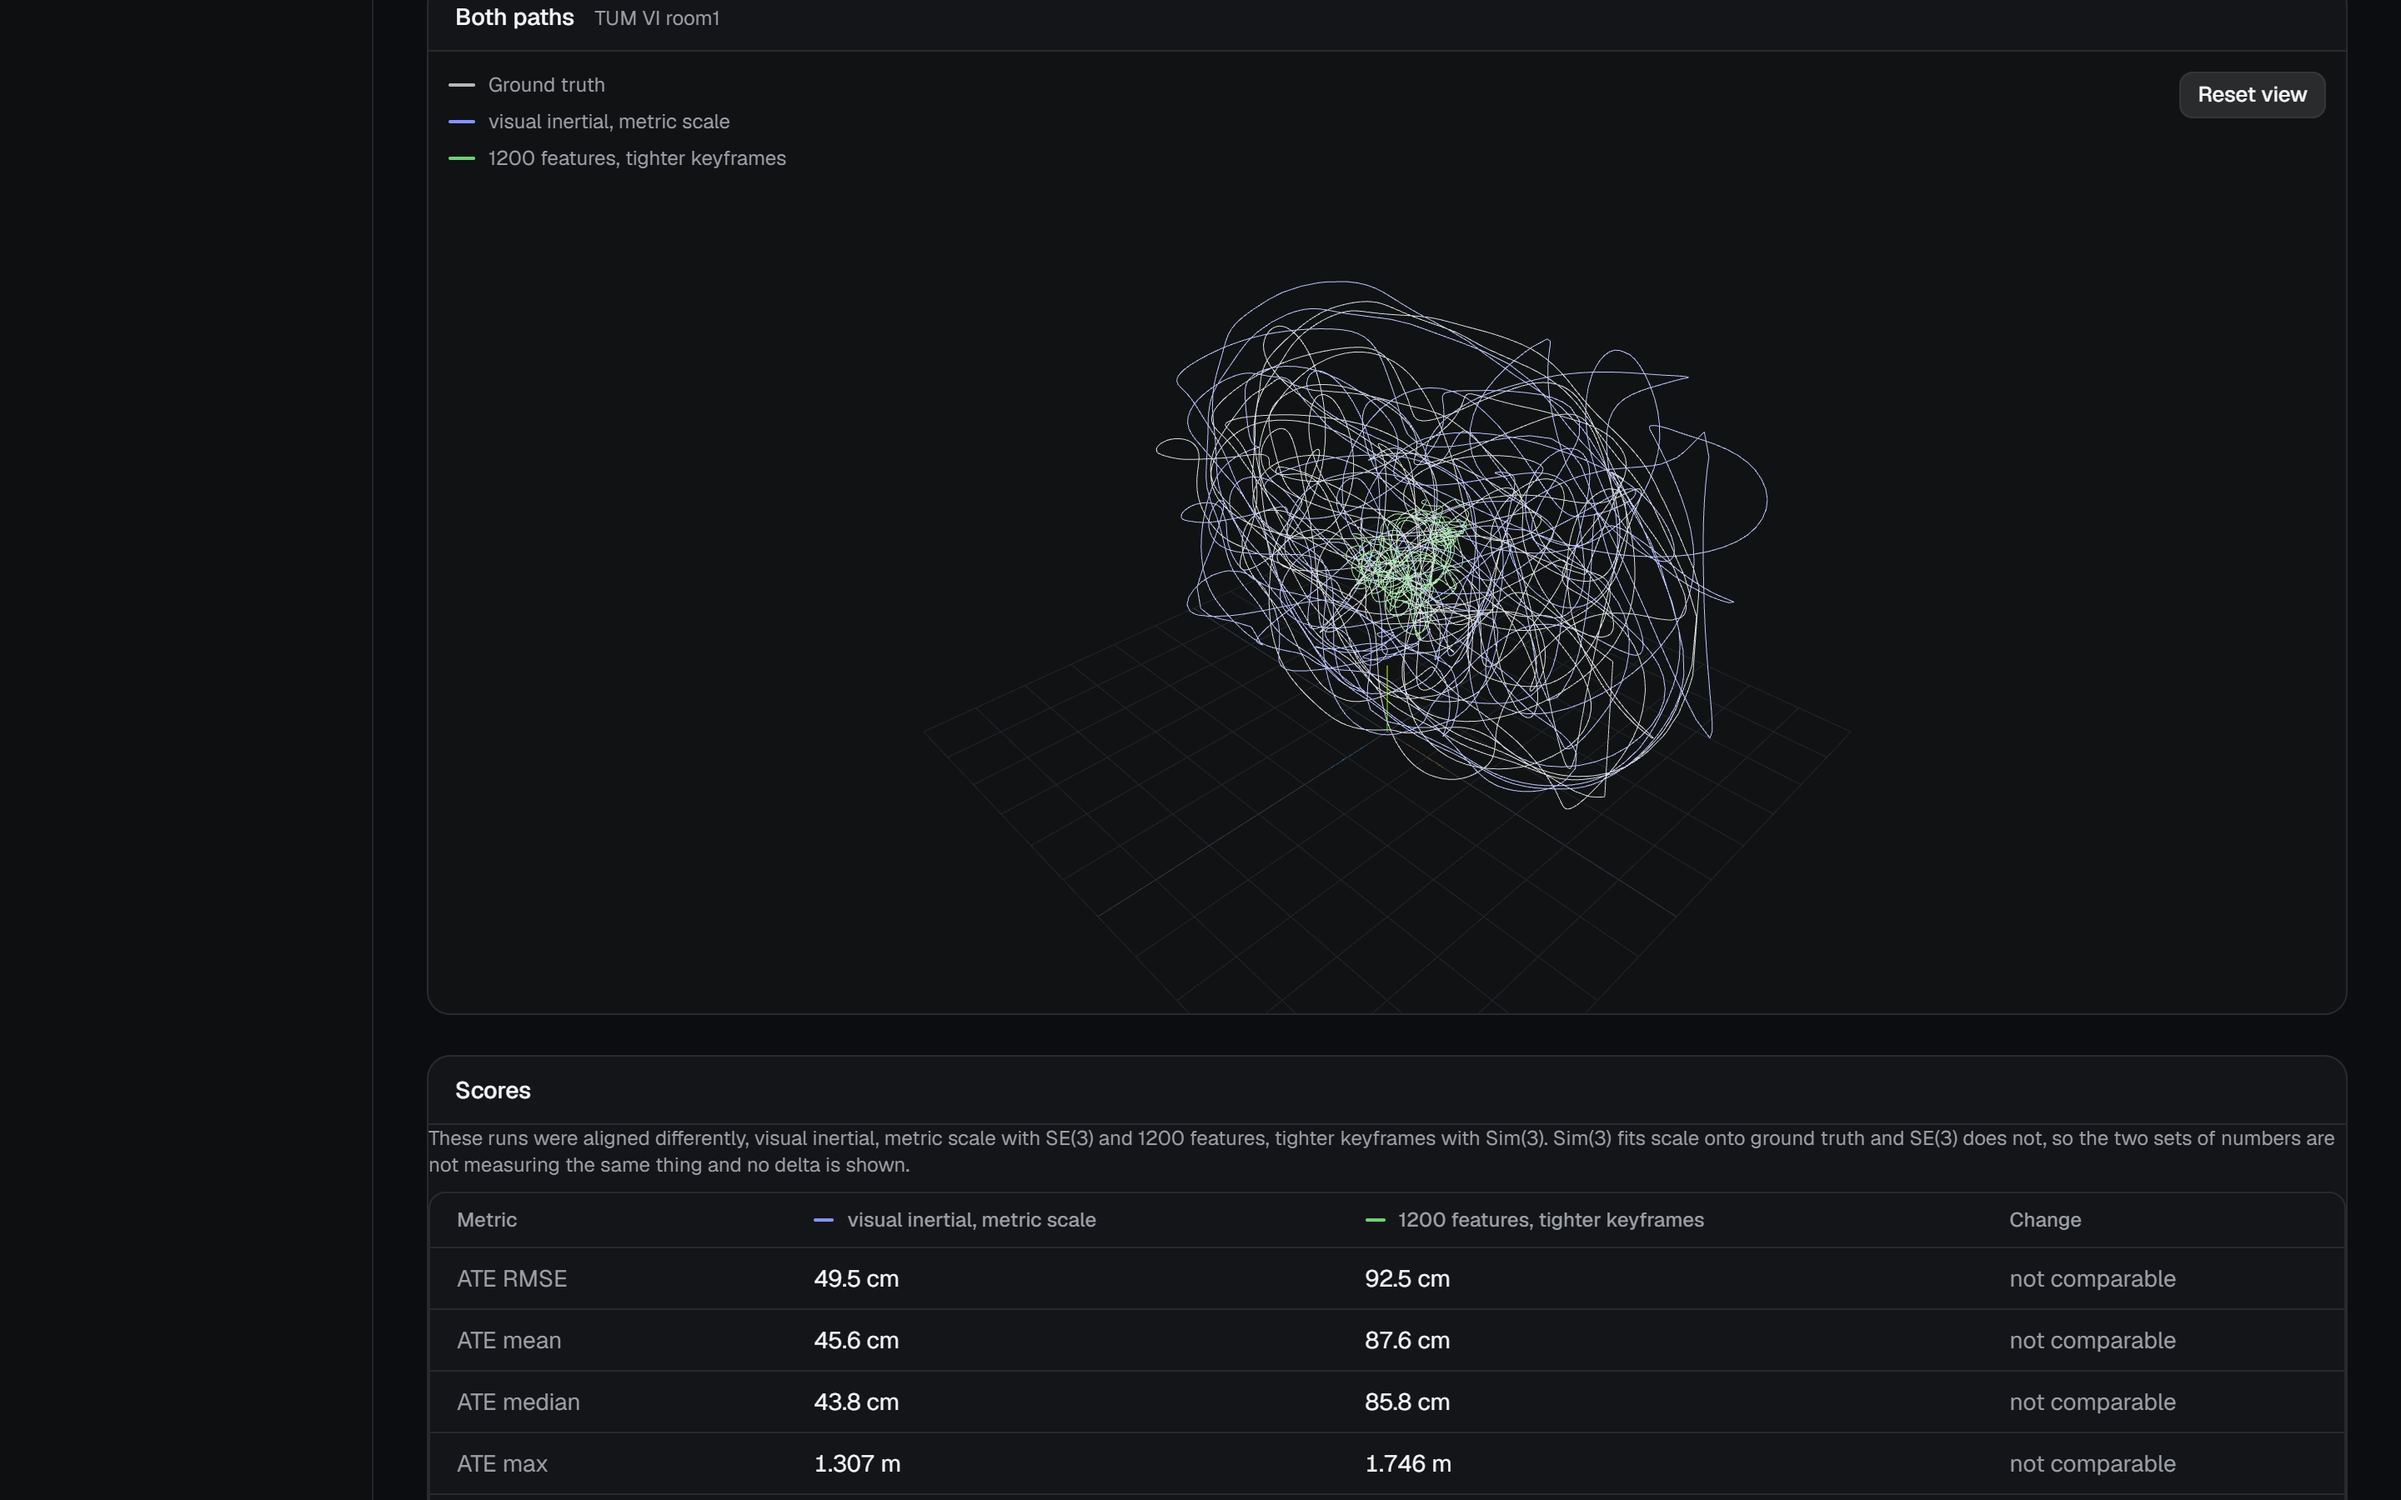
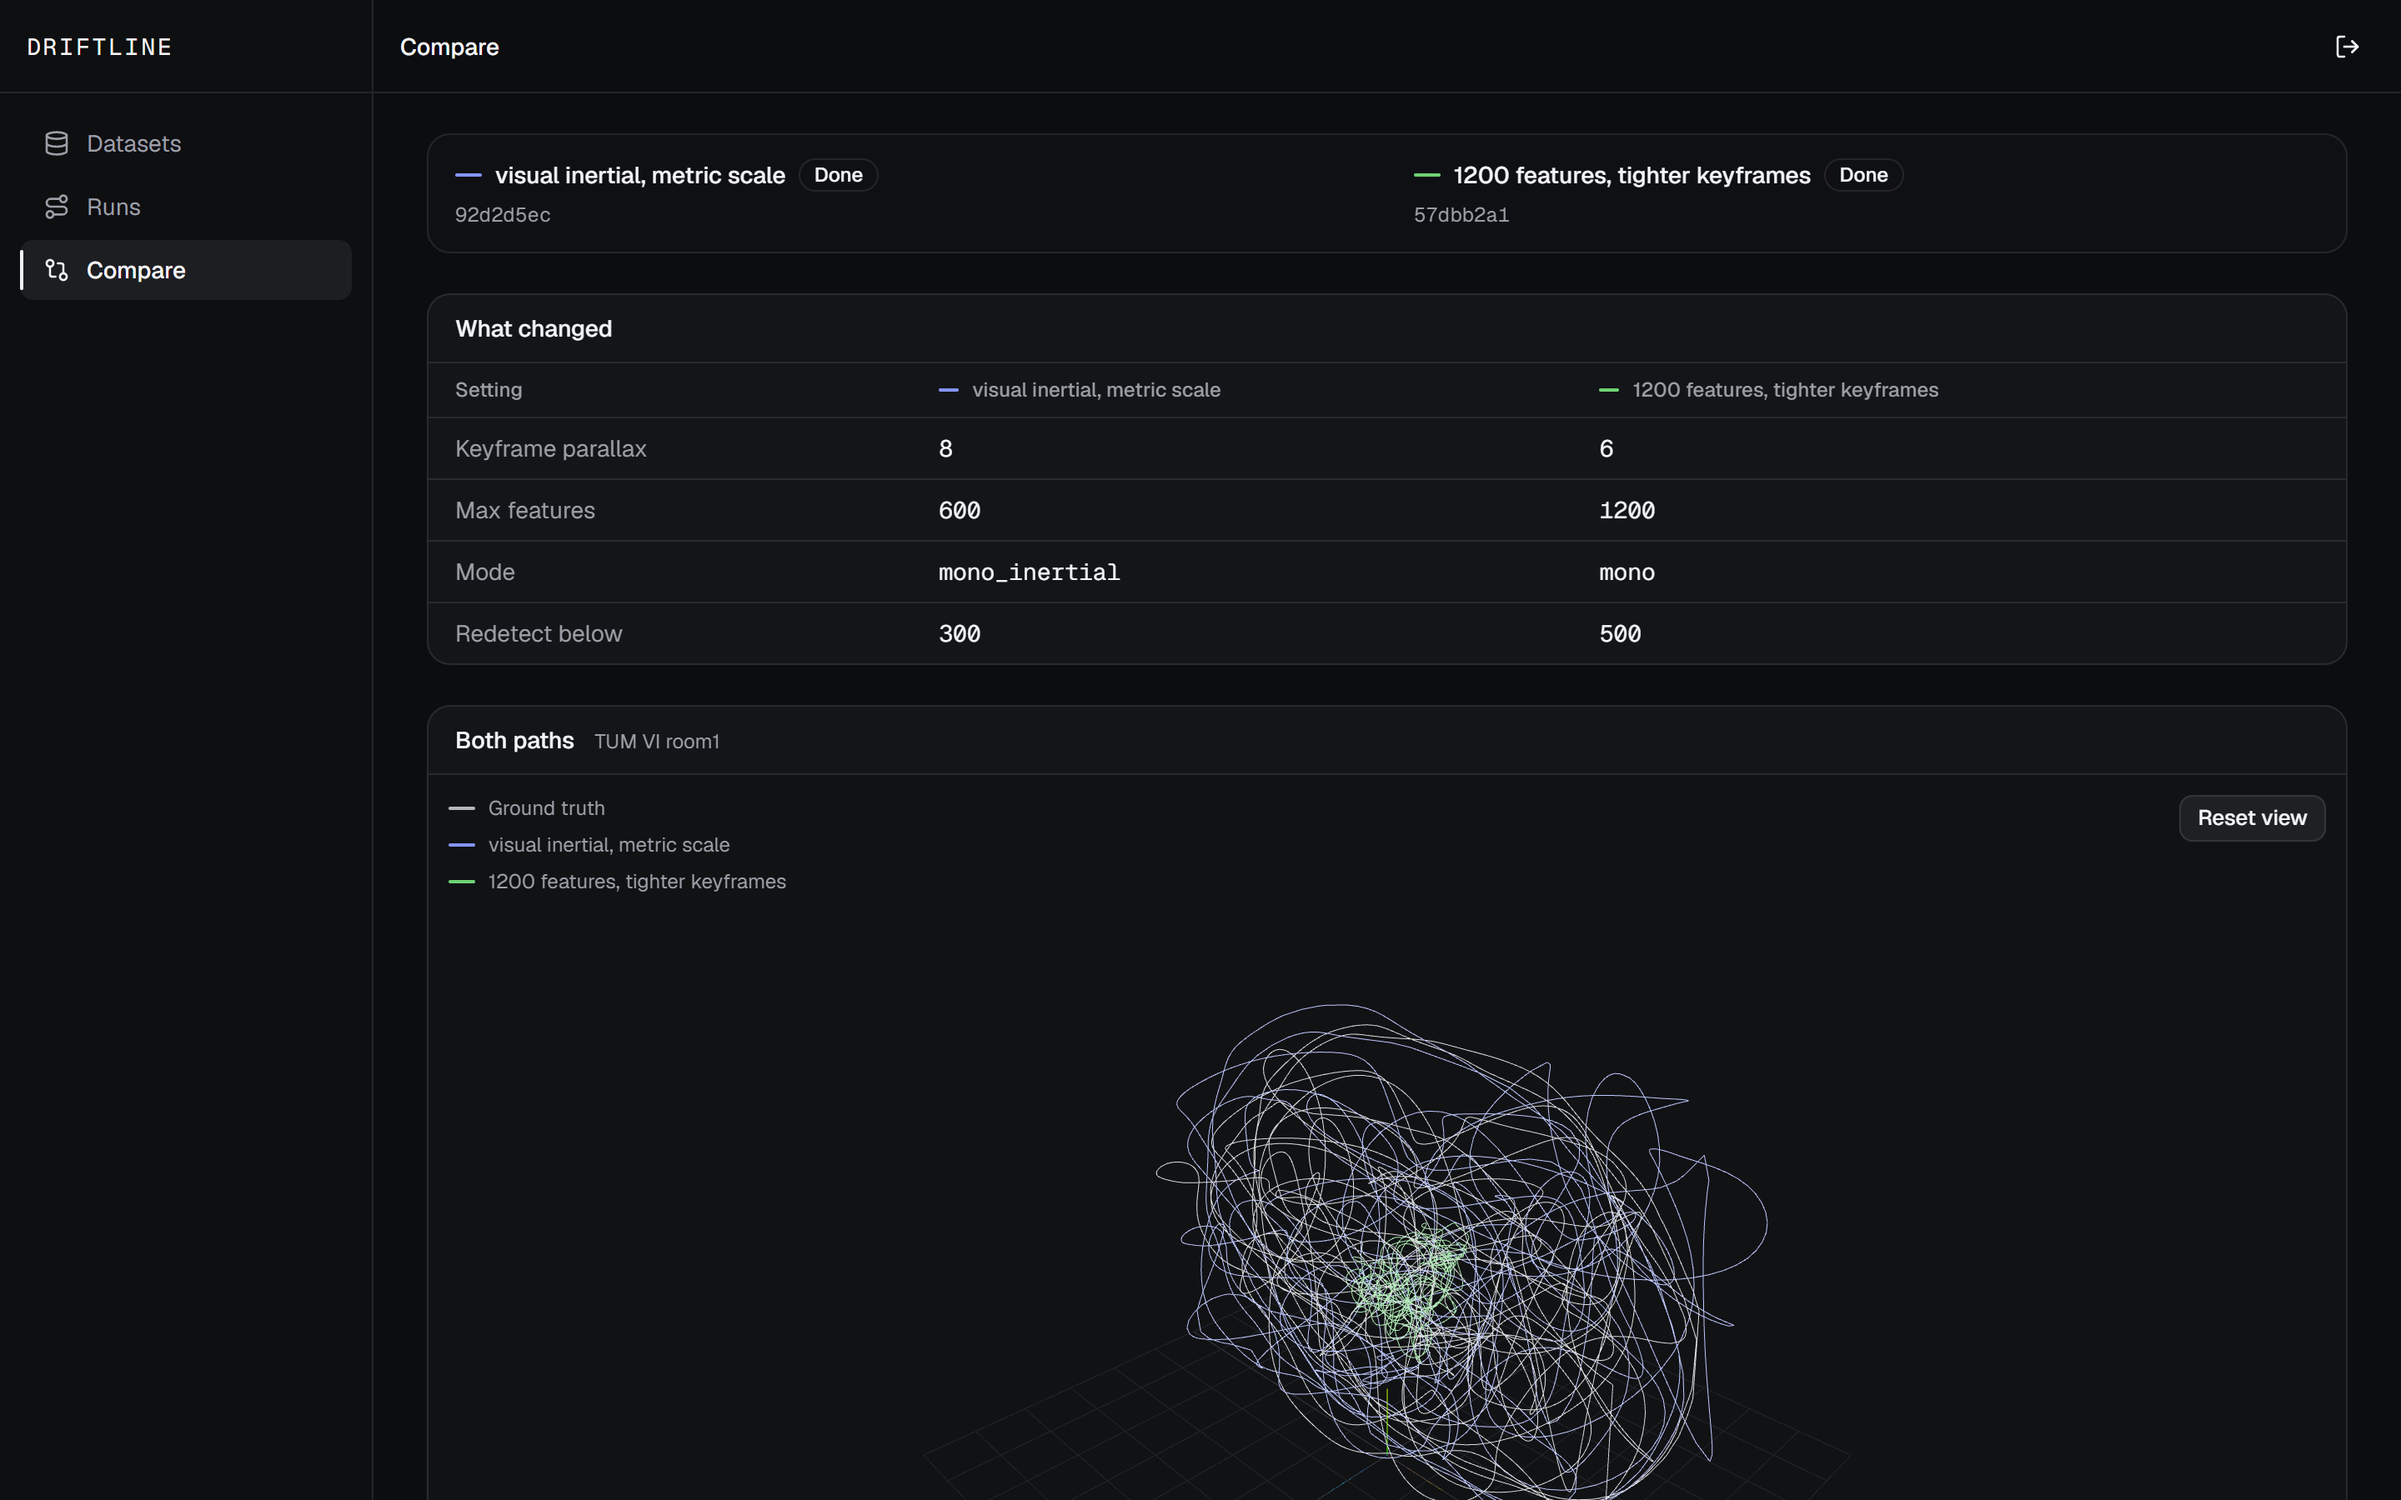
docs: recapture the readme figures against the fixed app chrome

diff --git a/frontend/e2e/readme-shots.capture.ts b/frontend/e2e/readme-shots.capture.ts
@@ -160,7 +160,13 @@ test("capture the compare screen", async ({ page }) => {
 
   await page.getByRole("button", { name: "Compare" }).click();
   await page.waitForURL(/\/app\/compare\?/);
-  await page.waitForTimeout(SETTLE_MS);
+  /*
+   * The paths load after the comparison, so the viewer holds a skeleton until they land.
+   * The wait is on the canvas being attached, not the legend: the legend renders from the path
+   * list before three.js has drawn anything, so waiting on it captures an empty panel.
+   */
+  await page.locator("canvas").first().waitFor({ state: "attached" });
+  await page.waitForTimeout(SETTLE_MS * 3);
   await page.screenshot({ path: `${DIR}/compare.png` });
 
   await settleViewer(page, "Both paths");

diff --git a/README.md b/README.md
@@ -53,7 +53,7 @@ That distinction is carried everywhere rather than hidden. A run states the alig
 **Comparison that refuses to mislead you.** Two runs go side by side with the config diff, both paths in one viewer, and a metrics table. When the two were aligned differently the delta column is withheld and the reason is stated, because the difference between a Sim(3) figure and an SE(3) one measures the alignment rather than the estimator.
 
 <p align="center">
-  <img src="frontend/public/readme/compare.png" width="880" alt="The compare screen with ground truth, the visual inertial run in blue and the 1200 feature run in green in one viewer. The scores table below says the runs were aligned differently, that Sim(3) fits scale onto ground truth and SE(3) does not, and every row of the change column reads not comparable.">
+  <img src="frontend/public/readme/compare.png" width="880" alt="The compare screen for the visual inertial run against the 1200 feature run. A settings table names the four values that differ between them, including the estimator mode. Below it both estimates are drawn with ground truth in one viewer, the inertial run in blue and the monocular one in green.">
 </p>
 
 **Every estimator field, with its range and what it does.** Twelve parameters, each labelled with what it trades off and the values it takes. Tuning a run does not mean reading the estimator source, and a value out of range is rejected before the run is queued.
